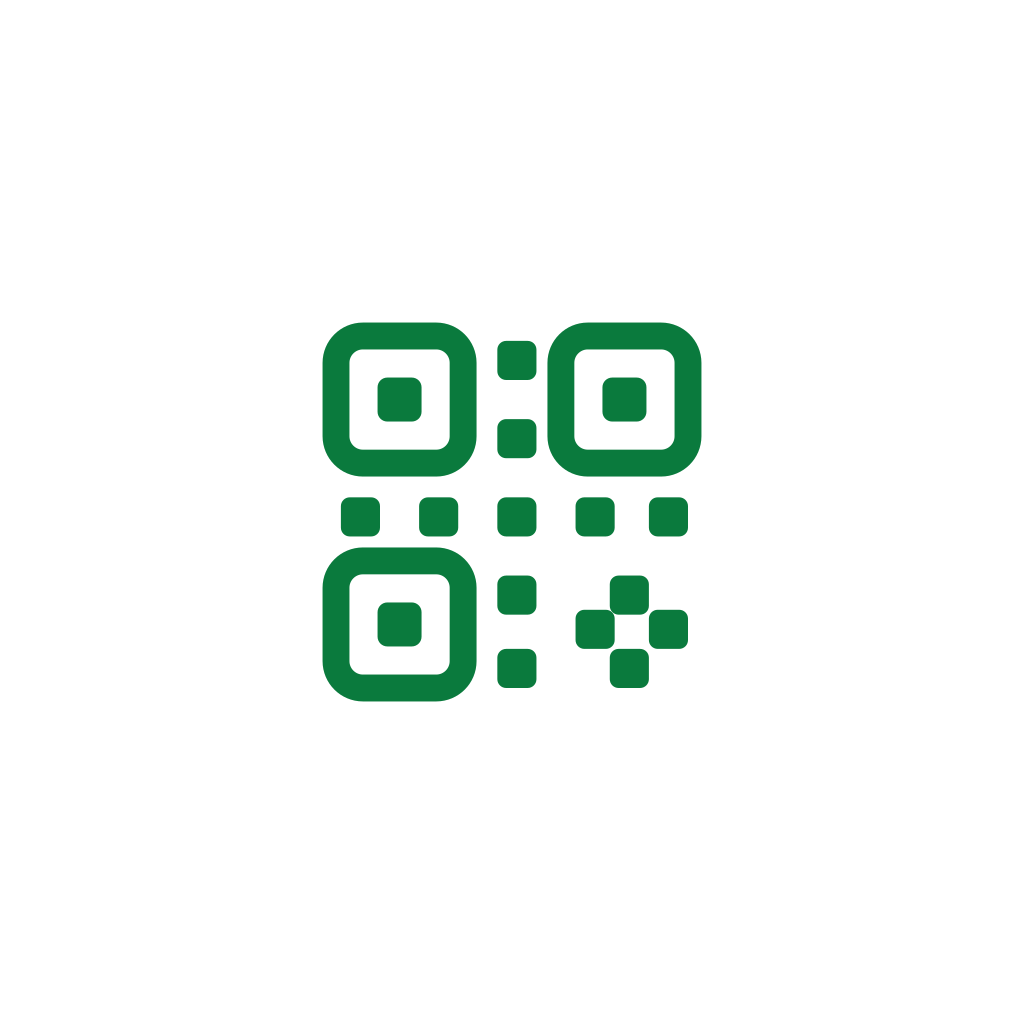
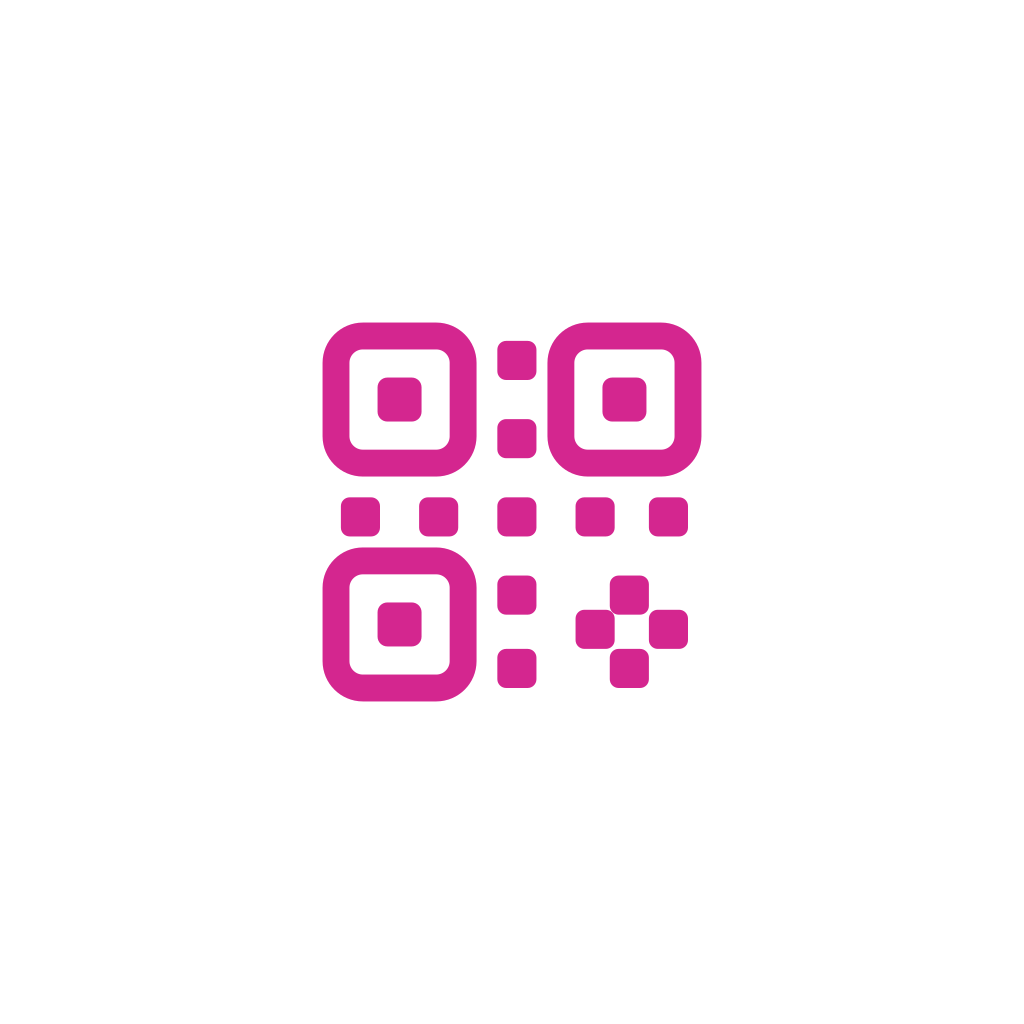
Makos Sacco colours: magenta and white
Magenta #D4268F (taken from a Makos matatu photo) replaces FarePay green in
the phone app, the office dashboard, the no-app pay page (light and dark) and
the icons. Icons recoloured pixel by pixel; the Android launcher icon and
splash now show the magenta QR on white (before, green on green hid it).

Changed region(s): [[0.3125, 0.3125, 0.6875, 0.6875], [0.5625, 0.5625, 0.6875, 0.6875]]

diff --git a/admin-web/src/styles.css b/admin-web/src/styles.css
@@ -1,7 +1,7 @@
 :root {
-  --green: #0a7a3d;
-  --green-dark: #075c2e;
-  --green-soft: #e7f5ec;
+  --brand: #d4268f; /* Makos Sacco magenta */
+  --brand-dark: #a8166e;
+  --brand-soft: #fce7f3;
   --text: #111827;
   --muted: #6b7280;
   --border: #e5e7eb;
@@ -21,19 +21,19 @@
 body { margin: 0; background: var(--bg); }
 h1 { font-size: 24px; margin: 0 0 4px; }
 h2 { font-size: 15px; text-transform: uppercase; color: var(--muted); letter-spacing: 0.03em; margin: 28px 0 10px; }
-a { color: var(--green); }
+a { color: var(--brand); }
 .muted { color: var(--muted); font-size: 14px; }
 .num { text-align: right; font-variant-numeric: tabular-nums; white-space: nowrap; }
 
 /* ---------- Layout ---------- */
 .shell { display: flex; min-height: 100vh; }
 .sidebar { width: 220px; background: var(--card); border-right: 1px solid var(--border); padding: 20px 12px; display: flex; flex-direction: column; gap: 4px; position: sticky; top: 0; height: 100vh; }
-.brand { font-weight: 800; font-size: 20px; color: var(--green); padding: 0 10px 16px; }
+.brand { font-weight: 800; font-size: 20px; color: var(--brand); padding: 0 10px 16px; }
 .brand small { display: block; font-weight: 500; font-size: 12px; color: var(--muted); }
 .nav-group { font-size: 11px; font-weight: 700; text-transform: uppercase; letter-spacing: 0.05em; color: var(--muted); padding: 14px 12px 4px; }
 .nav a { display: block; padding: 8px 12px; border-radius: 10px; color: var(--text); text-decoration: none; font-weight: 500; }
 .nav a:hover { background: var(--bg); }
-.nav a.active { background: var(--green-soft); color: var(--green-dark); font-weight: 700; }
+.nav a.active { background: var(--brand-soft); color: var(--brand-dark); font-weight: 700; }
 .sidebar .who { margin-top: auto; padding: 12px 10px 0; border-top: 1px solid var(--border); font-size: 14px; }
 .main { flex: 1; padding: 28px 32px 60px; max-width: 1180px; }
 .page-head { display: flex; align-items: flex-end; justify-content: space-between; gap: 16px; flex-wrap: wrap; margin-bottom: 18px; }
@@ -57,19 +57,19 @@ a { color: var(--green); }
 .banner { border-radius: 12px; padding: 12px 14px; margin-bottom: 16px; font-size: 14px; }
 .banner.warning { background: var(--warning-soft); color: var(--warning); }
 .banner.danger { background: var(--danger-soft); color: var(--danger); }
-.banner.success { background: var(--green-soft); color: var(--green-dark); }
+.banner.success { background: var(--brand-soft); color: var(--brand-dark); }
 .badge { display: inline-block; border-radius: 999px; padding: 2px 10px; font-size: 12px; font-weight: 600; background: var(--bg); color: var(--muted); }
-.badge.success { background: var(--green-soft); color: var(--green-dark); }
+.badge.success { background: var(--brand-soft); color: var(--brand-dark); }
 .badge.danger { background: var(--danger-soft); color: var(--danger); }
 .badge.warning { background: var(--warning-soft); color: var(--warning); }
 
-button, .button { font: inherit; font-weight: 600; border: 0; border-radius: 10px; padding: 10px 16px; cursor: pointer; background: var(--green); color: #fff; text-decoration: none; display: inline-block; }
-button:hover { background: var(--green-dark); }
+button, .button { font: inherit; font-weight: 600; border: 0; border-radius: 10px; padding: 10px 16px; cursor: pointer; background: var(--brand); color: #fff; text-decoration: none; display: inline-block; }
+button:hover { background: var(--brand-dark); }
 button:disabled { opacity: 0.5; cursor: default; }
 button.secondary { background: var(--card); color: var(--text); border: 1px solid var(--border); }
 button.secondary:hover { background: var(--bg); }
 button.danger { background: var(--danger); }
-button.link { background: none; color: var(--green); padding: 0; }
+button.link { background: none; color: var(--brand); padding: 0; }
 .button.secondary-link { background: var(--card); color: var(--text); border: 1px solid var(--border); }
 .button.secondary-link:hover { background: var(--bg); }
 
@@ -78,7 +78,7 @@ label { display: block; font-size: 14px; font-weight: 600; margin-bottom: 14px; 
 label input, label select, label textarea { display: block; width: 100%; margin-top: 6px; font-weight: 400; }
 .chips { display: flex; gap: 8px; flex-wrap: wrap; }
 .chips button { background: var(--card); color: var(--text); border: 1px solid var(--border); border-radius: 999px; padding: 7px 14px; font-weight: 500; }
-.chips button.on { background: var(--green); color: #fff; border-color: var(--green); }
+.chips button.on { background: var(--brand); color: #fff; border-color: var(--brand); }
 
 table { width: 100%; border-collapse: collapse; background: var(--card); border: 1px solid var(--border); border-radius: 14px; overflow: hidden; font-size: 14px; }
 th { text-align: left; font-size: 12px; text-transform: uppercase; color: var(--muted); background: #fafafa; }
@@ -90,11 +90,11 @@ tr.clickable:hover td { background: #fafafa; }
 
 .bars { display: flex; align-items: flex-end; gap: 4px; height: 160px; }
 .bars button { flex: 1; height: 100%; display: flex; align-items: flex-end; background: none; padding: 0; border-radius: 0; }
-.bars span { display: block; width: 100%; border-radius: 4px 4px 0 0; background: var(--green); min-height: 2px; }
+.bars span { display: block; width: 100%; border-radius: 4px 4px 0 0; background: var(--brand); min-height: 2px; }
 .bars span.empty { background: var(--border); }
-.bars button.on span { background: var(--green-dark); }
+.bars button.on span { background: var(--brand-dark); }
 .share { height: 6px; border-radius: 3px; background: var(--border); overflow: hidden; margin-top: 6px; }
-.share > div { height: 100%; background: var(--green); }
+.share > div { height: 100%; background: var(--brand); }
 
 .dialog-backdrop { position: fixed; inset: 0; background: rgba(17, 24, 39, 0.45); display: flex; align-items: center; justify-content: center; padding: 16px; z-index: 10; }
 .dialog { background: var(--card); border-radius: 16px; padding: 22px; width: 100%; max-width: 440px; }
@@ -106,7 +106,7 @@ tr.clickable:hover td { background: #fafafa; }
 .check { display: flex; gap: 10px; padding: 12px 0; border-bottom: 1px solid var(--border); }
 .check:last-child { border-bottom: 0; }
 .dot { width: 22px; height: 22px; border-radius: 50%; flex: none; display: flex; align-items: center; justify-content: center; color: #fff; font-size: 13px; font-weight: 800; }
-.dot.ok { background: var(--green); }
+.dot.ok { background: var(--brand); }
 .dot.bad { background: var(--danger); }
 .kv { display: flex; justify-content: space-between; gap: 12px; padding: 7px 0; border-bottom: 1px solid var(--border); font-size: 14px; }
 .kv:last-child { border-bottom: 0; }
@@ -114,7 +114,7 @@ tr.clickable:hover td { background: #fafafa; }
 
 /* ---------- QR sticker: only the sticker is printed ---------- */
 .sticker { width: 100%; max-width: 360px; margin: 0 auto; text-align: center; border: 2px dashed var(--border); border-radius: 18px; padding: 22px; background: #fff; }
-.sticker .title { font-size: 22px; font-weight: 800; color: var(--green); }
+.sticker .title { font-size: 22px; font-weight: 800; color: var(--brand); }
 .sticker img { width: 100%; max-width: 300px; display: block; margin: 12px auto; image-rendering: pixelated; }
 .sticker .plate { font-size: 28px; font-weight: 800; letter-spacing: 0.04em; }
 .sticker .hint { font-size: 14px; color: var(--muted); margin-top: 6px; }

diff --git a/backend/src/web/pay/pay.css b/backend/src/web/pay/pay.css
@@ -1,27 +1,27 @@
 :root {
-  --green: #0a7a3d;
-  --green-dark: #075c2e;
-  --green-soft: #e7f5ec;
-  --bg: #f4f6f5;
+  --brand: #d4268f; /* Makos Sacco magenta */
+  --brand-dark: #a8166e;
+  --brand-soft: #fce7f3;
+  --bg: #f7f4f6;
   --card: #ffffff;
-  --text: #13201a;
-  --muted: #5b6b63;
-  --border: #d7dfdb;
+  --text: #1f1219;
+  --muted: #6b5b64;
+  --border: #e5d9e0;
   --danger: #b91c1c;
-  --on-green: #ffffff;
+  --on-brand: #ffffff;
 }
 @media (prefers-color-scheme: dark) {
   :root {
-    --green: #2fb36a;
-    --green-dark: #1f8a4f;
-    --green-soft: #12301f;
-    --bg: #0f1512;
-    --card: #18211c;
-    --text: #e8efeb;
-    --muted: #9aaba2;
-    --border: #2c3a33;
+    --brand: #f06bb5;
+    --brand-dark: #d4268f;
+    --brand-soft: #3a1229;
+    --bg: #141013;
+    --card: #1e181c;
+    --text: #f1ebef;
+    --muted: #ab9ca5;
+    --border: #3a2e35;
     --danger: #f87171;
-    --on-green: #06210f;
+    --on-brand: #2a0718;
   }
 }
 * { box-sizing: border-box; }
@@ -29,7 +29,7 @@ html, body { margin: 0; background: var(--bg); color: var(--text); font: 16px/1.
 main { max-width: 440px; margin: 0 auto; padding: 16px 16px 40px; }
 [hidden] { display: none !important; }
 header { display: flex; justify-content: space-between; align-items: baseline; margin-bottom: 16px; }
-.brand { font-weight: 800; font-size: 20px; color: var(--green); }
+.brand { font-weight: 800; font-size: 20px; color: var(--brand); }
 .sacco { color: var(--muted); font-size: 14px; text-align: right; }
 section { background: var(--card); border: 1px solid var(--border); border-radius: 16px; padding: 18px; }
 h1 { font-size: 22px; margin: 0 0 8px; }
@@ -41,20 +41,20 @@ h2 { font-size: 17px; margin: 18px 0 10px; }
 .plate { font-size: 30px; font-weight: 800; letter-spacing: 0.04em; }
 .stops { display: grid; gap: 8px; }
 .stop { display: flex; justify-content: space-between; align-items: center; width: 100%; padding: 14px 16px; border: 2px solid var(--border); border-radius: 12px; background: var(--card); color: var(--text); font: inherit; text-align: left; cursor: pointer; }
-.stop[aria-checked='true'] { border-color: var(--green); background: var(--green-soft); }
+.stop[aria-checked='true'] { border-color: var(--brand); background: var(--brand-soft); }
 .stop .fare { font-weight: 700; white-space: nowrap; margin-left: 12px; }
 label { display: block; font-weight: 600; margin: 18px 0 6px; }
 input { width: 100%; padding: 14px 16px; font: inherit; font-size: 18px; border: 2px solid var(--border); border-radius: 12px; background: var(--card); color: var(--text); }
-input:focus, .stop:focus-visible, button:focus-visible { outline: 3px solid var(--green); outline-offset: 2px; }
-button { display: block; width: 100%; margin-top: 18px; padding: 16px; font: inherit; font-size: 18px; font-weight: 700; color: var(--on-green); background: var(--green); border: 0; border-radius: 12px; cursor: pointer; }
+input:focus, .stop:focus-visible, button:focus-visible { outline: 3px solid var(--brand); outline-offset: 2px; }
+button { display: block; width: 100%; margin-top: 18px; padding: 16px; font: inherit; font-size: 18px; font-weight: 700; color: var(--on-brand); background: var(--brand); border: 0; border-radius: 12px; cursor: pointer; }
 button:disabled { opacity: 0.5; cursor: not-allowed; }
-button.secondary { background: transparent; color: var(--green); border: 2px solid var(--green); }
+button.secondary { background: transparent; color: var(--brand); border: 2px solid var(--brand); }
 .error { color: var(--danger); font-weight: 600; margin: 12px 0 0; }
-.spinner { width: 44px; height: 44px; margin: 4px auto 14px; border: 4px solid var(--green-soft); border-top-color: var(--green); border-radius: 50%; animation: spin 0.9s linear infinite; }
+.spinner { width: 44px; height: 44px; margin: 4px auto 14px; border: 4px solid var(--brand-soft); border-top-color: var(--brand); border-radius: 50%; animation: spin 0.9s linear infinite; }
 @keyframes spin { to { transform: rotate(360deg); } }
 @media (prefers-reduced-motion: reduce) { .spinner { animation: none; } }
 #waiting, #failed { text-align: center; }
 .quick-line { font-size: 20px; text-align: center; margin: 18px 0 6px; }
-.ticket { text-align: center; border: 2px dashed var(--green); border-radius: 14px; padding: 18px; }
-.ticket .ok { color: var(--green); font-weight: 800; font-size: 20px; }
+.ticket { text-align: center; border: 2px dashed var(--brand); border-radius: 14px; padding: 18px; }
+.ticket .ok { color: var(--brand); font-weight: 800; font-size: 20px; }
 .ticket .code { font-size: 40px; font-weight: 800; letter-spacing: 0.12em; margin: 6px 0; font-family: ui-monospace, Menlo, Consolas, monospace; }

diff --git a/mobile/src/components/Hero.tsx b/mobile/src/components/Hero.tsx
@@ -15,7 +15,7 @@ function today() {
   return `${DAYS[d.getDay()]}, ${d.getDate()} ${MONTHS[d.getMonth()]}`;
 }
 
-/** Green header at the top of a home screen: date, greeting, and optional extra content. */
+/** Coloured header at the top of a home screen: date, greeting, and optional extra content. */
 export function Hero({ name, subtitle, children }: { name?: string; subtitle?: string; children?: ReactNode }) {
   return (
     <View style={styles.hero}>
@@ -32,7 +32,7 @@ export function Hero({ name, subtitle, children }: { name?: string; subtitle?: s
 
 const styles = StyleSheet.create({
   hero: { backgroundColor: colors.primary, borderRadius: 16, padding: 20, marginBottom: 14 },
-  date: { color: '#D1FAE5', fontSize: 13, fontWeight: '600' },
+  date: { color: colors.primarySoft, fontSize: 13, fontWeight: '600' },
   title: { color: '#fff', fontSize: 24, fontWeight: '800', marginTop: 4 },
-  sub: { color: '#D1FAE5', fontSize: 14, marginTop: 2 },
+  sub: { color: colors.primarySoft, fontSize: 14, marginTop: 2 },
 });

diff --git a/mobile/src/app/admin/(tabs)/index.tsx b/mobile/src/app/admin/(tabs)/index.tsx
@@ -147,7 +147,7 @@ export default function AdminHome() {
 
 const styles = StyleSheet.create({
   heroTotals: { flexDirection: 'row', justifyContent: 'space-between', marginTop: 16 },
-  heroLabel: { color: '#D1FAE5', fontSize: 13 },
+  heroLabel: { color: colors.primarySoft, fontSize: 13 },
   heroValue: { color: '#fff', fontSize: 26, fontWeight: '800' },
   tiles: { flexDirection: 'row', flexWrap: 'wrap', gap: 10, marginBottom: 4 },
   tile: {

diff --git a/mobile/src/app/passenger/(tabs)/index.tsx b/mobile/src/app/passenger/(tabs)/index.tsx
@@ -91,7 +91,7 @@ export default function PassengerHome() {
 }
 
 const styles = StyleSheet.create({
-  balanceLabel: { color: '#D1FAE5', fontSize: 13, marginTop: 16 },
+  balanceLabel: { color: colors.primarySoft, fontSize: 13, marginTop: 16 },
   balance: { color: '#fff', fontSize: 34, fontWeight: '800' },
   heroButtons: { flexDirection: 'row', gap: 10, marginTop: 14 },
   heroButton: {

diff --git a/mobile/src/components/crew/CrewHome.tsx b/mobile/src/components/crew/CrewHome.tsx
@@ -119,7 +119,7 @@ export function CrewHome() {
 
 const styles = StyleSheet.create({
   totals: { flexDirection: 'row', justifyContent: 'space-between', marginTop: 16 },
-  totalLabel: { color: '#D1FAE5', fontSize: 13 },
+  totalLabel: { color: colors.primarySoft, fontSize: 13 },
   total: { color: '#fff', fontSize: 30, fontWeight: '800' },
   routeCard: {
     flexDirection: 'row',

diff --git a/mobile/src/components/ui.tsx b/mobile/src/components/ui.tsx
@@ -14,9 +14,10 @@ import {
 } from 'react-native';
 
 export const colors = {
-  primary: '#0A7A3D',
-  primaryDark: '#075C2E',
-  primarySoft: '#E7F5EC',
+  // Makos Sacco magenta (white text on it is easy to read).
+  primary: '#D4268F',
+  primaryDark: '#A8166E',
+  primarySoft: '#FCE7F3',
   text: '#111827',
   muted: '#6B7280',
   border: '#E5E7EB',
